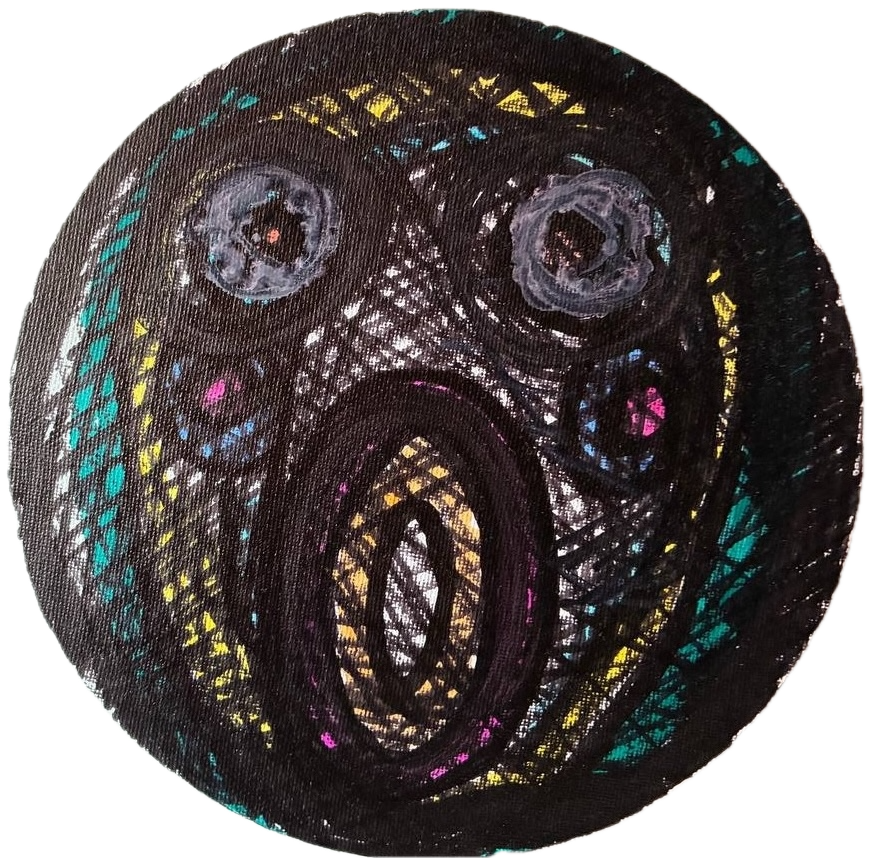
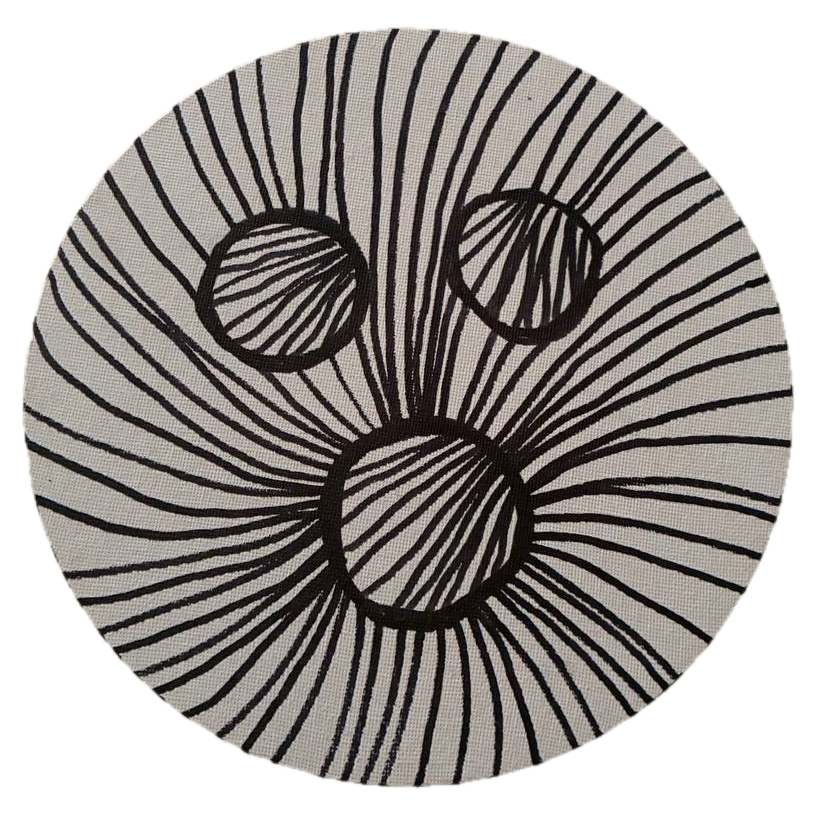
1234

diff --git a/styles.css b/styles.css
@@ -24,7 +24,7 @@ body {
   overflow: hidden;
 
   page-break-inside: avoid;
-  align-items: stretch; /* ключ: синхронизация высоты колонок */
+  align-items: stretch;
 }
 
 /* ТЕКСТ */
@@ -33,7 +33,6 @@ body {
   position: relative;
 }
 
-/* текст фиксируется к нижней линии строки */
 .text-inner {
   position: absolute;
   bottom: 2mm;
@@ -41,20 +40,37 @@ body {
   right: 0;
 }
 
-/* ФОТО */
+/* КРУПНЫЙ ФРАГМЕНТ */
+.detail-image {
+  width: 150px;
+  height: 150px;
+  flex-shrink: 0;
+
+  align-self: flex-end;
+  overflow: hidden;
+}
+
+.detail-image img {
+  width: 100%;
+  height: 100%;
+  object-fit: cover;
+  border-radius: 50%;
+  display: block;
+}
+
+/* ОСНОВНОЕ ИЗОБРАЖЕНИЕ */
 .image {
-  width: 70%;
+  flex: 1;
   position: relative;
   overflow: hidden;
 }
 
-/* изображение фиксируется по нижнему краю */
 .image img {
   position: absolute;
   bottom: 0;
   left: 0;
 
-  height: 85mm; /* строго как строка */
+  height: 85mm;
   width: auto;
 
   display: block;

diff --git a/index.html b/index.html
@@ -1,8 +1,9 @@
 ---
-layout: none
----
+
+## layout: none
 
 <!DOCTYPE html>
+
 <html lang="ru">
 <head>
 <meta charset="utf-8">
@@ -20,14 +21,23 @@ layout: none
 <div class="item">
 
   <div class="text">
-    <div class="title">{{ work.title }}</div>
-    <div class="meta">{{ work.year }}</div>
-    <div class="meta">{{ work.size }}</div>
-    <div class="meta">{{ work.materials }}</div>
+    <div class="text-inner">
+      <div class="title">{{ work.title }}</div>
+      <div class="meta">{{ work.year }}</div>
+      <div class="meta">{{ work.size }}</div>
+      <div class="meta">{{ work.materials }}</div>
+    </div>
   </div>
 
+{% if work.detail_image %}
+
+  <div class="detail-image">
+    <img src="images/{{ work.detail_image }}.png" alt="">
+  </div>
+  {% endif %}
+
   <div class="image">
-    <img src="images/{{ work.image }}.png">
+    <img src="images/{{ work.image }}.png" alt="">
   </div>
 
 </div>